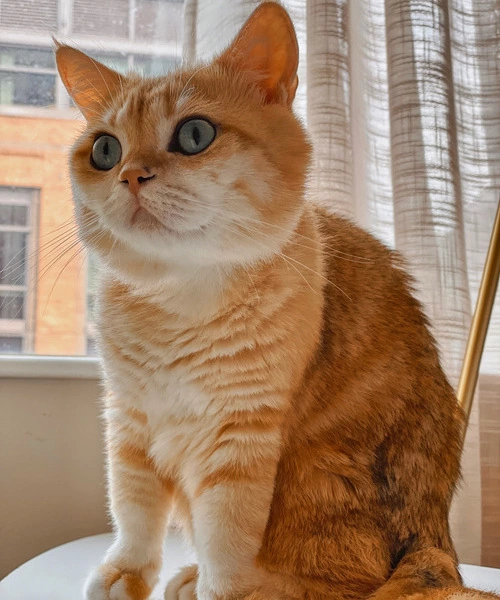
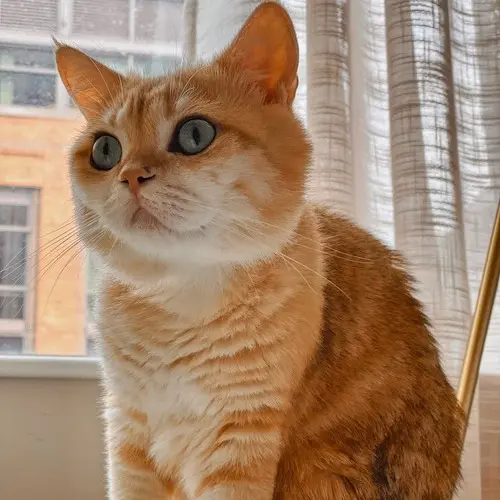
update profile photo

diff --git a/index.html b/index.html
@@ -46,7 +46,7 @@
       <div class="row align-items-center">
         <div class="col-sm-auto col-wrapper">
           <div id="profile-credit" class="picture">
-            <img id="profile" src="assets/profile/myself.webp" class="img-responsive" alt="[Pingchuan :)]"/>
+            <img id="profile" src="assets/profile/pcma.webp" class="img-responsive" alt="[Pingchuan :)]"/>
             <!-- <div id="credit" class="credit">Photo by Lijie Chen</div> -->
           </div>
         </div>
@@ -1196,7 +1196,7 @@
               <a href="https://homes.cs.washington.edu/~fox/">Prof. Dieter Fox</a>
             </div>
             <div class="col-md-3 col-wrapper time">
-              May 2024 - Present
+              May 2024 - Dec. 2024
             </div>
           </div>
           <div class="row align-items-center">

diff --git a/js/script.js b/js/script.js
@@ -22,7 +22,7 @@ function profile_enter() {
 }
 
 function profile_leave() {
-  profile.src = "assets/profile/myself.webp";
+  profile.src = "assets/profile/pcma.webp";
 }
 
 profile_credit.addEventListener("mouseenter", profile_enter);

diff --git a/css/style.css b/css/style.css
@@ -181,8 +181,8 @@ a:hover {
 
 .home-wrapper .picture img {
   width: 100%;
-  max-width: 200px;
-  margin-right: 20px;
+  max-width: 240px;
+  margin-right: 40px;
 }
 
 .home-wrapper .description {
